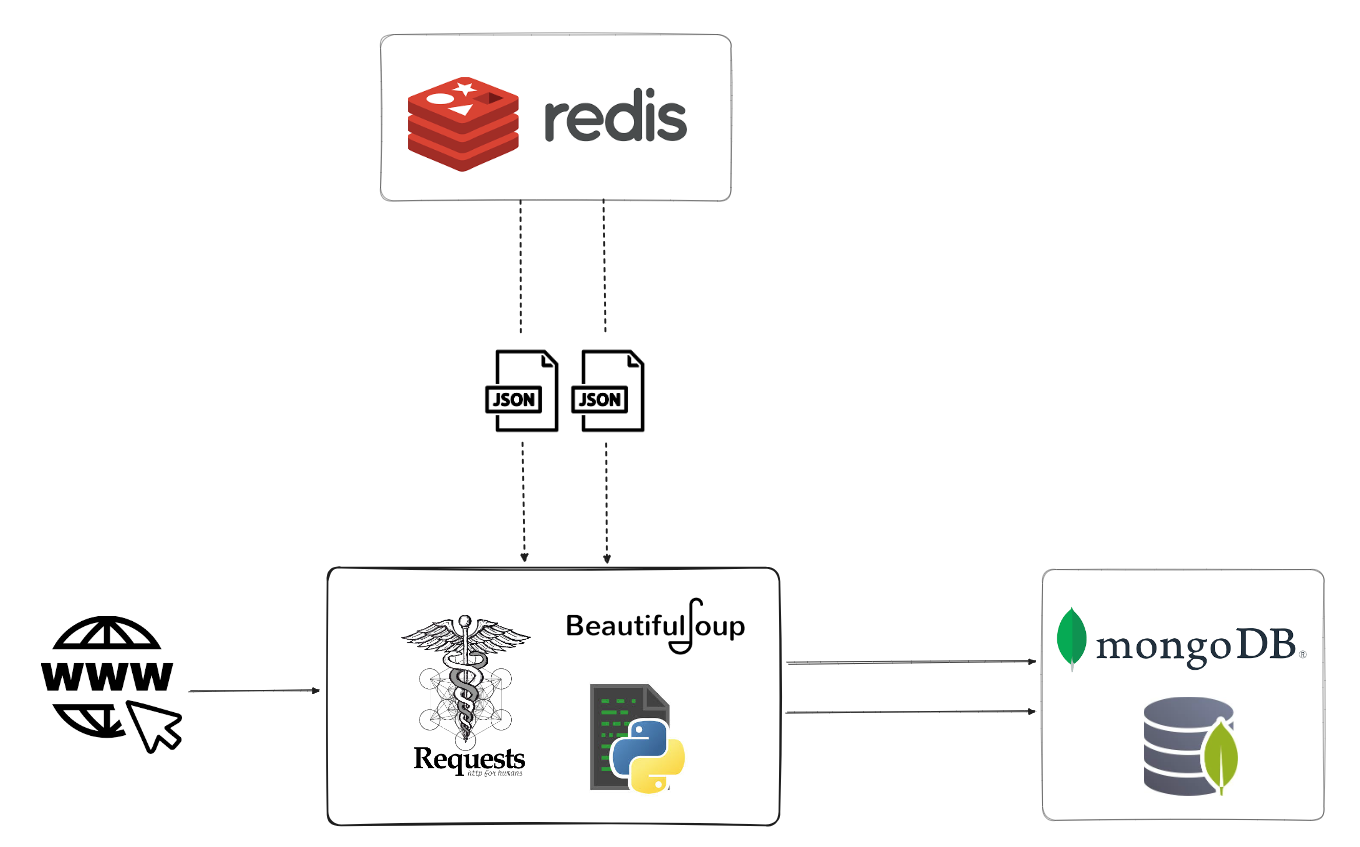
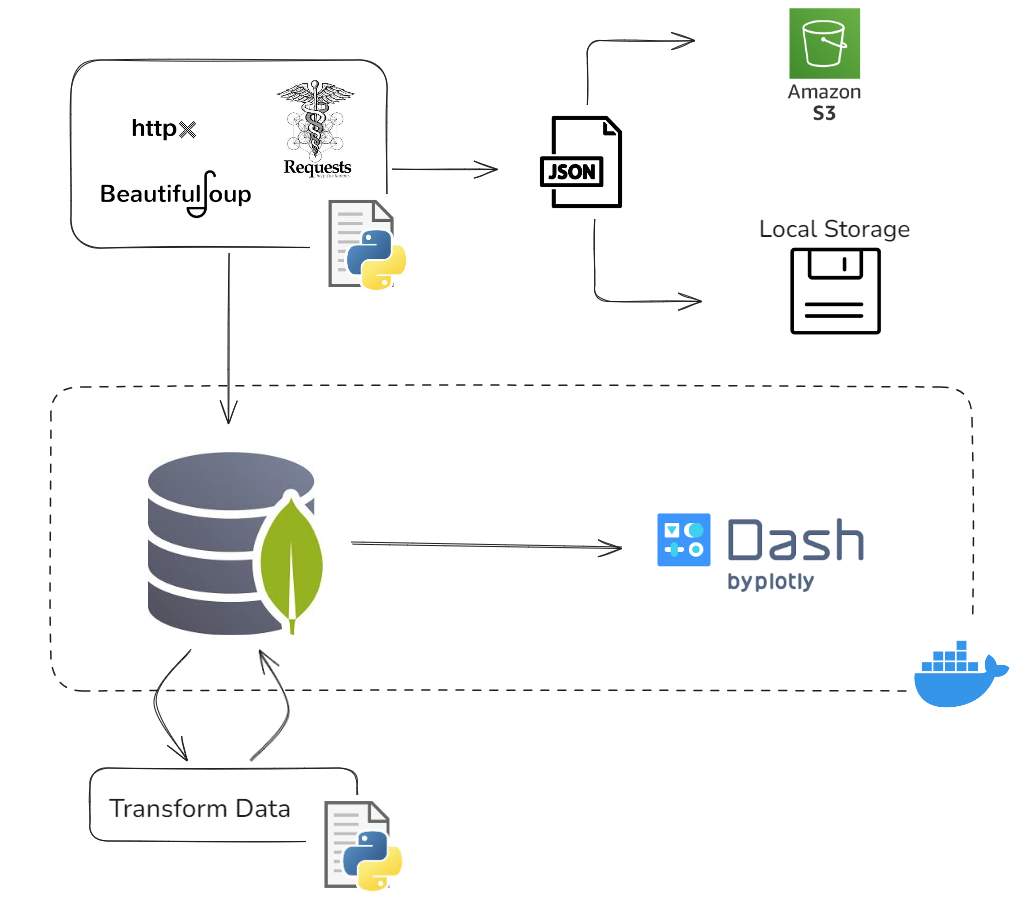
Crawler to Dash added

diff --git a/README.md b/README.md
@@ -23,87 +23,15 @@ You can reach out to me using the links below:
 
 ### Python
 
-1. [Rental Properties CRUD Catalog with SQLAlchemy, FastAPI, Streamlit and AWS Deploy](#rental-properties-crud-catalog-with-sqlalchemy-fastapi-streamlit-and-aws-deploy) 
+1. [Backend API for a digital book collection with JWT authentication using FastAPI](#backend-api-for-a-digital-book-collection-with-jwt-authentication-using-fastapi) 
 2. [Orchestrating an ETL with Airflow - From Google Drive to PostgreSQL](#orchestrating-an-etl-with-airflow---from-google-drive-to-postgresql)
-3. [Backend API for a digital book collection with JWT authentication using FastAPI](#backend-api-for-a-digital-book-collection-with-jwt-authentication-using-fastapi) 
-4. [Web crawler to extract data from property websites using noSQL databases - Redis and MongoDB](#web-crawler-to-extract-data-from-property-websites-using-nosql-databases---redis-and-mongodb)
+3. [Rental Properties CRUD Catalog with SQLAlchemy, FastAPI, Streamlit and AWS Deploy](#rental-properties-crud-catalog-with-sqlalchemy-fastapi-streamlit-and-aws-deploy) 
+4. [Property Sales Dashboard Using Real Data Crawled from Real Estate Website - Httpx, MongoDB and Dash-plotly](#property-sales-dashboard-using-real-data-crawled-from-real-estate-website---httpx-mongodb-and-dash-plotly)
 5. [Excel Schema Validator with Pydantic and Streamlit](#excel-schema-validator-with-pydantic-and-streamlit)
 
 ## SQL
 1. [Analytic Report with SQL - Northwind database](#analytic-report-with-sql---northwind-database)
 2. [Automating Northwind database operations using PL/pgSQL - Stored Procedures and Triggers](#automating-northwind-database-operations-using-plpgsql---stored-procedures-and-triggers)
-
--------------------------------------------------------------------------------
-
-## Rental Properties CRUD Catalog with SQLAlchemy, FastAPI, Streamlit and AWS Deploy
-
-Web application for performing asynchronous CRUD operations on a PostgreSQL database using FastAPI, SQLAlchemy, Pydantic, Streamlit, and Docker.
-
-<img src="media/crud_project/demo.gif" />
-
-### Tools used
-
-<div style="display: flex; justify-content: space-between;">
-    <img src="https://cdn.jsdelivr.net/gh/devicons/devicon@latest/icons/streamlit/streamlit-original-wordmark.svg" height=100 />          
-    <img src="media/pydantic.svg" height=100/>
-    <img src="https://cdn.jsdelivr.net/gh/devicons/devicon@latest/icons/sqlalchemy/sqlalchemy-original-wordmark.svg" height=100/>     
-    <img src="https://cdn.jsdelivr.net/gh/devicons/devicon@latest/icons/pandas/pandas-original-wordmark.svg" height=100/>
-    <img src="https://cdn.jsdelivr.net/gh/devicons/devicon@latest/icons/fastapi/fastapi-original-wordmark.svg" height=100>
-    <img src="https://cdn.jsdelivr.net/gh/devicons/devicon@latest/icons/postgresql/postgresql-plain-wordmark.svg" height=100 />
-    <img src="https://cdn.jsdelivr.net/gh/devicons/devicon@latest/icons/docker/docker-plain-wordmark.svg"  height=100/>      
-    <img src="https://cdn.jsdelivr.net/gh/devicons/devicon@latest/icons/amazonwebservices/amazonwebservices-original-wordmark.svg" height=100/>
-</div>
-          
-### How it works
-
-The project was built in a way where three services communicate with each other separately: database, backend, and frontend. Docker Compose was used to orchestrate the containers, allowing the frontend to communicate with the backend through the API once each one is running in independent containers.
-
-In each of these operations, the frontend sends a request to the API created using FastAPI. The API is responsible for communicating with the backend and sending a response back to the frontend to display the result of the CRUD operation. In the first layer, Pydantic is used to validate all the inputs, ensuring that the schema the user is trying to send matches the database table schema. If it doesn't match, an error message is displayed to the user.
-
-After [Pydantic](https://docs.pydantic.dev/latest/) validation is completed, [SQLAlchemy](https://www.sqlalchemy.org/) is used to communicate with PostgreSQL and perform one of the CRUD operations in the database.
-
-[Alembic](https://alembic.sqlalchemy.org/en/latest/) was also used to perform database migrations, and [Pytest](https://docs.pytest.org/en/stable/) was used to perform some basic tests on asynchronous backend routes.
-
-<img src="media/crud_project/diag.png"/>
-
-See the full project repository [here](https://github.com/lealre/crud-rental-properties).
-
----------------------------------------------------------------------------------------------------
-
-## Orchestrating an ETL with Airflow - From Google Drive to PostgreSQL
-
-An ETL orchestration using Airflow, extracting CSV files from a folder in Google Drive, transforming values, and storing them in a PostgreSQL database.
-
-<img src="media/airflow_project/etl-diagram.png"/>
-
-The data is handled in a pandas DataFrame format, and all the data validation is performed using the Pandera library, a Pydantic-based library to validate DataFrame schemas. By setting a specific data contract, validations occur in two phases: when extracted and when transformed.
-
-The Airflow implementation was created using the Astro CLI, the command line interface for data orchestration from Astronomer.
-
-### Tools used
-<div style="display: flex; justify-content: space-between;">
-    <img src="https://cdn.jsdelivr.net/gh/devicons/devicon@latest/icons/sqlalchemy/sqlalchemy-original-wordmark.svg" height=100/>     
-    <img src="https://cdn.jsdelivr.net/gh/devicons/devicon@latest/icons/pandas/pandas-original-wordmark.svg" height=100/>
-    <img src="media/pandera.svg" height=40/>
-    <img src="https://cdn.jsdelivr.net/gh/devicons/devicon@latest/icons/postgresql/postgresql-plain-wordmark.svg" height=100 />
-    <img src="https://cdn.jsdelivr.net/gh/devicons/devicon@latest/icons/githubactions/githubactions-original.svg" height=100/>
-    <img src="https://cdn.jsdelivr.net/gh/devicons/devicon@latest/icons/pytest/pytest-plain-wordmark.svg" height=100 />      
-    <img src="https://cdn.jsdelivr.net/gh/devicons/devicon@latest/icons/apacheairflow/apacheairflow-original-wordmark.svg" height=150/>
-    <img src="https://cdn.jsdelivr.net/gh/devicons/devicon@latest/icons/docker/docker-plain-wordmark.svg"  height=100/>      
-          
-</div>
-
-### How it works
-
-Task 01: Connect with Google Drive API and extract CSV files
-
-Task 02: Validate extracted data
-
-Task 03: Transform data and validate it
-
-Task 04: Load data in database
-
-See the full project repository [here](https://github.com/lealre/etl-airflow?tab=readme-ov-file).
 
 -------------------------------------------------------------------------------
 
@@ -148,13 +76,84 @@ The `/author` route is responsible for the CRUD operations related to authors.
 
 See the full project repository [here](https://github.com/lealre/madr-fastapi).
 
+---------------------------------------------------------------------------------------------------
+
+## Orchestrating an ETL with Airflow - From Google Drive to PostgreSQL
+
+An ETL orchestration using Airflow, extracting CSV files from a folder in Google Drive, transforming values, and storing them in a PostgreSQL database.
+
+<img src="media/airflow_project/etl-diagram.png"/>
+
+The data is handled in a pandas DataFrame format, and all the data validation is performed using the Pandera library, a Pydantic-based library to validate DataFrame schemas. By setting a specific data contract, validations occur in two phases: when extracted and when transformed.
+
+The Airflow implementation was created using the Astro CLI, the command line interface for data orchestration from Astronomer.
+
+### Tools used
+<div style="display: flex; justify-content: space-between;">
+    <img src="https://cdn.jsdelivr.net/gh/devicons/devicon@latest/icons/sqlalchemy/sqlalchemy-original-wordmark.svg" height=100/>     
+    <img src="https://cdn.jsdelivr.net/gh/devicons/devicon@latest/icons/pandas/pandas-original-wordmark.svg" height=100/>
+    <img src="media/pandera.svg" height=40/>
+    <img src="https://cdn.jsdelivr.net/gh/devicons/devicon@latest/icons/postgresql/postgresql-plain-wordmark.svg" height=100 />
+    <img src="https://cdn.jsdelivr.net/gh/devicons/devicon@latest/icons/githubactions/githubactions-original.svg" height=100/>
+    <img src="https://cdn.jsdelivr.net/gh/devicons/devicon@latest/icons/pytest/pytest-plain-wordmark.svg" height=100 />      
+    <img src="https://cdn.jsdelivr.net/gh/devicons/devicon@latest/icons/apacheairflow/apacheairflow-original-wordmark.svg" height=150/>
+    <img src="https://cdn.jsdelivr.net/gh/devicons/devicon@latest/icons/docker/docker-plain-wordmark.svg"  height=100/>      
+          
+</div>
+
+### How it works
+
+Task 01: Connect with Google Drive API and extract CSV files
+
+Task 02: Validate extracted data
+
+Task 03: Transform data and validate it
+
+Task 04: Load data in database
+
+See the full project repository [here](https://github.com/lealre/etl-airflow?tab=readme-ov-file).
+
+-------------------------------------------------------------------------------
+## Rental Properties CRUD Catalog with SQLAlchemy, FastAPI, Streamlit and AWS Deploy
+
+Web application for performing asynchronous CRUD operations on a PostgreSQL database using FastAPI, SQLAlchemy, Pydantic, Streamlit, and Docker.
+
+<img src="media/crud_project/demo.gif" />
+
+### Tools used
+
+<div style="display: flex; justify-content: space-between;">
+    <img src="https://cdn.jsdelivr.net/gh/devicons/devicon@latest/icons/streamlit/streamlit-original-wordmark.svg" height=100 />          
+    <img src="media/pydantic.svg" height=100/>
+    <img src="https://cdn.jsdelivr.net/gh/devicons/devicon@latest/icons/sqlalchemy/sqlalchemy-original-wordmark.svg" height=100/>     
+    <img src="https://cdn.jsdelivr.net/gh/devicons/devicon@latest/icons/pandas/pandas-original-wordmark.svg" height=100/>
+    <img src="https://cdn.jsdelivr.net/gh/devicons/devicon@latest/icons/fastapi/fastapi-original-wordmark.svg" height=100>
+    <img src="https://cdn.jsdelivr.net/gh/devicons/devicon@latest/icons/postgresql/postgresql-plain-wordmark.svg" height=100 />
+    <img src="https://cdn.jsdelivr.net/gh/devicons/devicon@latest/icons/docker/docker-plain-wordmark.svg"  height=100/>      
+    <img src="https://cdn.jsdelivr.net/gh/devicons/devicon@latest/icons/amazonwebservices/amazonwebservices-original-wordmark.svg" height=100/>
+</div>
+          
+### How it works
+
+The project was built in a way where three services communicate with each other separately: database, backend, and frontend. Docker Compose was used to orchestrate the containers, allowing the frontend to communicate with the backend through the API once each one is running in independent containers.
+
+In each of these operations, the frontend sends a request to the API created using FastAPI. The API is responsible for communicating with the backend and sending a response back to the frontend to display the result of the CRUD operation. In the first layer, Pydantic is used to validate all the inputs, ensuring that the schema the user is trying to send matches the database table schema. If it doesn't match, an error message is displayed to the user.
+
+After [Pydantic](https://docs.pydantic.dev/latest/) validation is completed, [SQLAlchemy](https://www.sqlalchemy.org/) is used to communicate with PostgreSQL and perform one of the CRUD operations in the database.
+
+[Alembic](https://alembic.sqlalchemy.org/en/latest/) was also used to perform database migrations, and [Pytest](https://docs.pytest.org/en/stable/) was used to perform some basic tests on asynchronous backend routes.
+
+<img src="media/crud_project/diag.png"/>
+
+See the full project repository [here](https://github.com/lealre/crud-rental-properties).
+
 -------------------------------------------------------------------------------
 
-## Web crawler to extract data from property websites using noSQL databases - Redis and MongoDB
+## Property Sales Dashboard Using Real Data Crawled from Real Estate Website - Httpx, MongoDB and Dash-plotly
 
-A versatile web crawler for extracting data from property websites, utilizing NoSQL databases such as Redis and MongoDB.
+This repository consists of an implementation of a dashboard containing data scraped from a real estate website: [Imovirtual](https://www.imovirtual.com/), a Portuguese real estate website offering homes, apartments, and other properties for sale and rent. 
 
-The crawler retrieves specific tasks or inputs from Redis, allowing data extraction processes across multiple sites using a single script. In this project two portuguese sites were scraped: [CASASAPO](https://casa.sapo.pt/) and [Imovirtual](https://www.imovirtual.com/).
+Using MongoDB as the database, it crawls raw data, cleans it, and makes it ready to be used in the dashboard.
 
 <img src="media/web_crawler/demo.gif" />
 
@@ -163,23 +162,32 @@ The crawler retrieves specific tasks or inputs from Redis, allowing data extract
 <div style="display: flex; justify-content: space-between;">   
     <img src="media/requests.svg" height=100/> 
     <img src="media/bs4.svg" height=100/>
-    <img src="https://cdn.jsdelivr.net/gh/devicons/devicon@latest/icons/redis/redis-plain-wordmark.svg"  height=100/>
+    <img src="https://cdn.jsdelivr.net/gh/devicons/devicon@latest/icons/amazonwebservices/amazonwebservices-plain-wordmark.svg"  height=100/>
+    <img src="https://cdn.jsdelivr.net/gh/devicons/devicon@latest/icons/plotly/plotly-original-wordmark.svg" height=100/>
     <img src="https://cdn.jsdelivr.net/gh/devicons/devicon@latest/icons/mongodb/mongodb-plain-wordmark.svg" height=100/>
 </div>
           
 ### How it works
 
-After receiving a specific website key identification, the script retrieves all the inputs from the Redis database in a JSON format. These inputs are responsible for the URL requests and capturing the HTML structure of the target site for extraction. It also receives a query specifying the location in Portugal from which to search for properties.
+The project is divided into two blocks that can work separately:
 
-The extraction process utilizes the BeautifulSoup package, and through a recursive function, it identifies additional pages for extraction if present.
+- **Data Ingestion** 
 
-To establish connections with both Redis and MongoDB, the generic crawler inherits from an abstract class.
+Responsible for crawling the data, consolidating it in the database while avoiding duplicates, and preparing the data for use in the dashboard. 
 
-After extracting all the raw data, it is stored directly in the MongoDB database for further processing and analysis.
+The raw collection, which comes from the crawler, can store data in MongoDB, an AWS S3 bucket as a JSON file, or locally as a JSON file, depending on the settings in the .env file.
+
+For the data used in the dashboard, a new collection is created. This pipeline extracts data from one of the previous collections (raw or consolidated), filters and transforms it so that it is ready for use in the dashboard.
+
+For this specific website, it was possible to use asynchronous requests.
+
+- **Dashboard**
+
+Uses the cleaned and filtered data from the database.
 
 <img src="media/web_crawler/diagram.png"/>
 
-See the full project repository [here](https://github.com/lealre/properties-webcrawler?tab=readme-ov-file).
+See the full project repository [here](https://github.com/lealre/crawler-to-dash).
 
 ---------------------------------------------------------------------------------------------------
 
